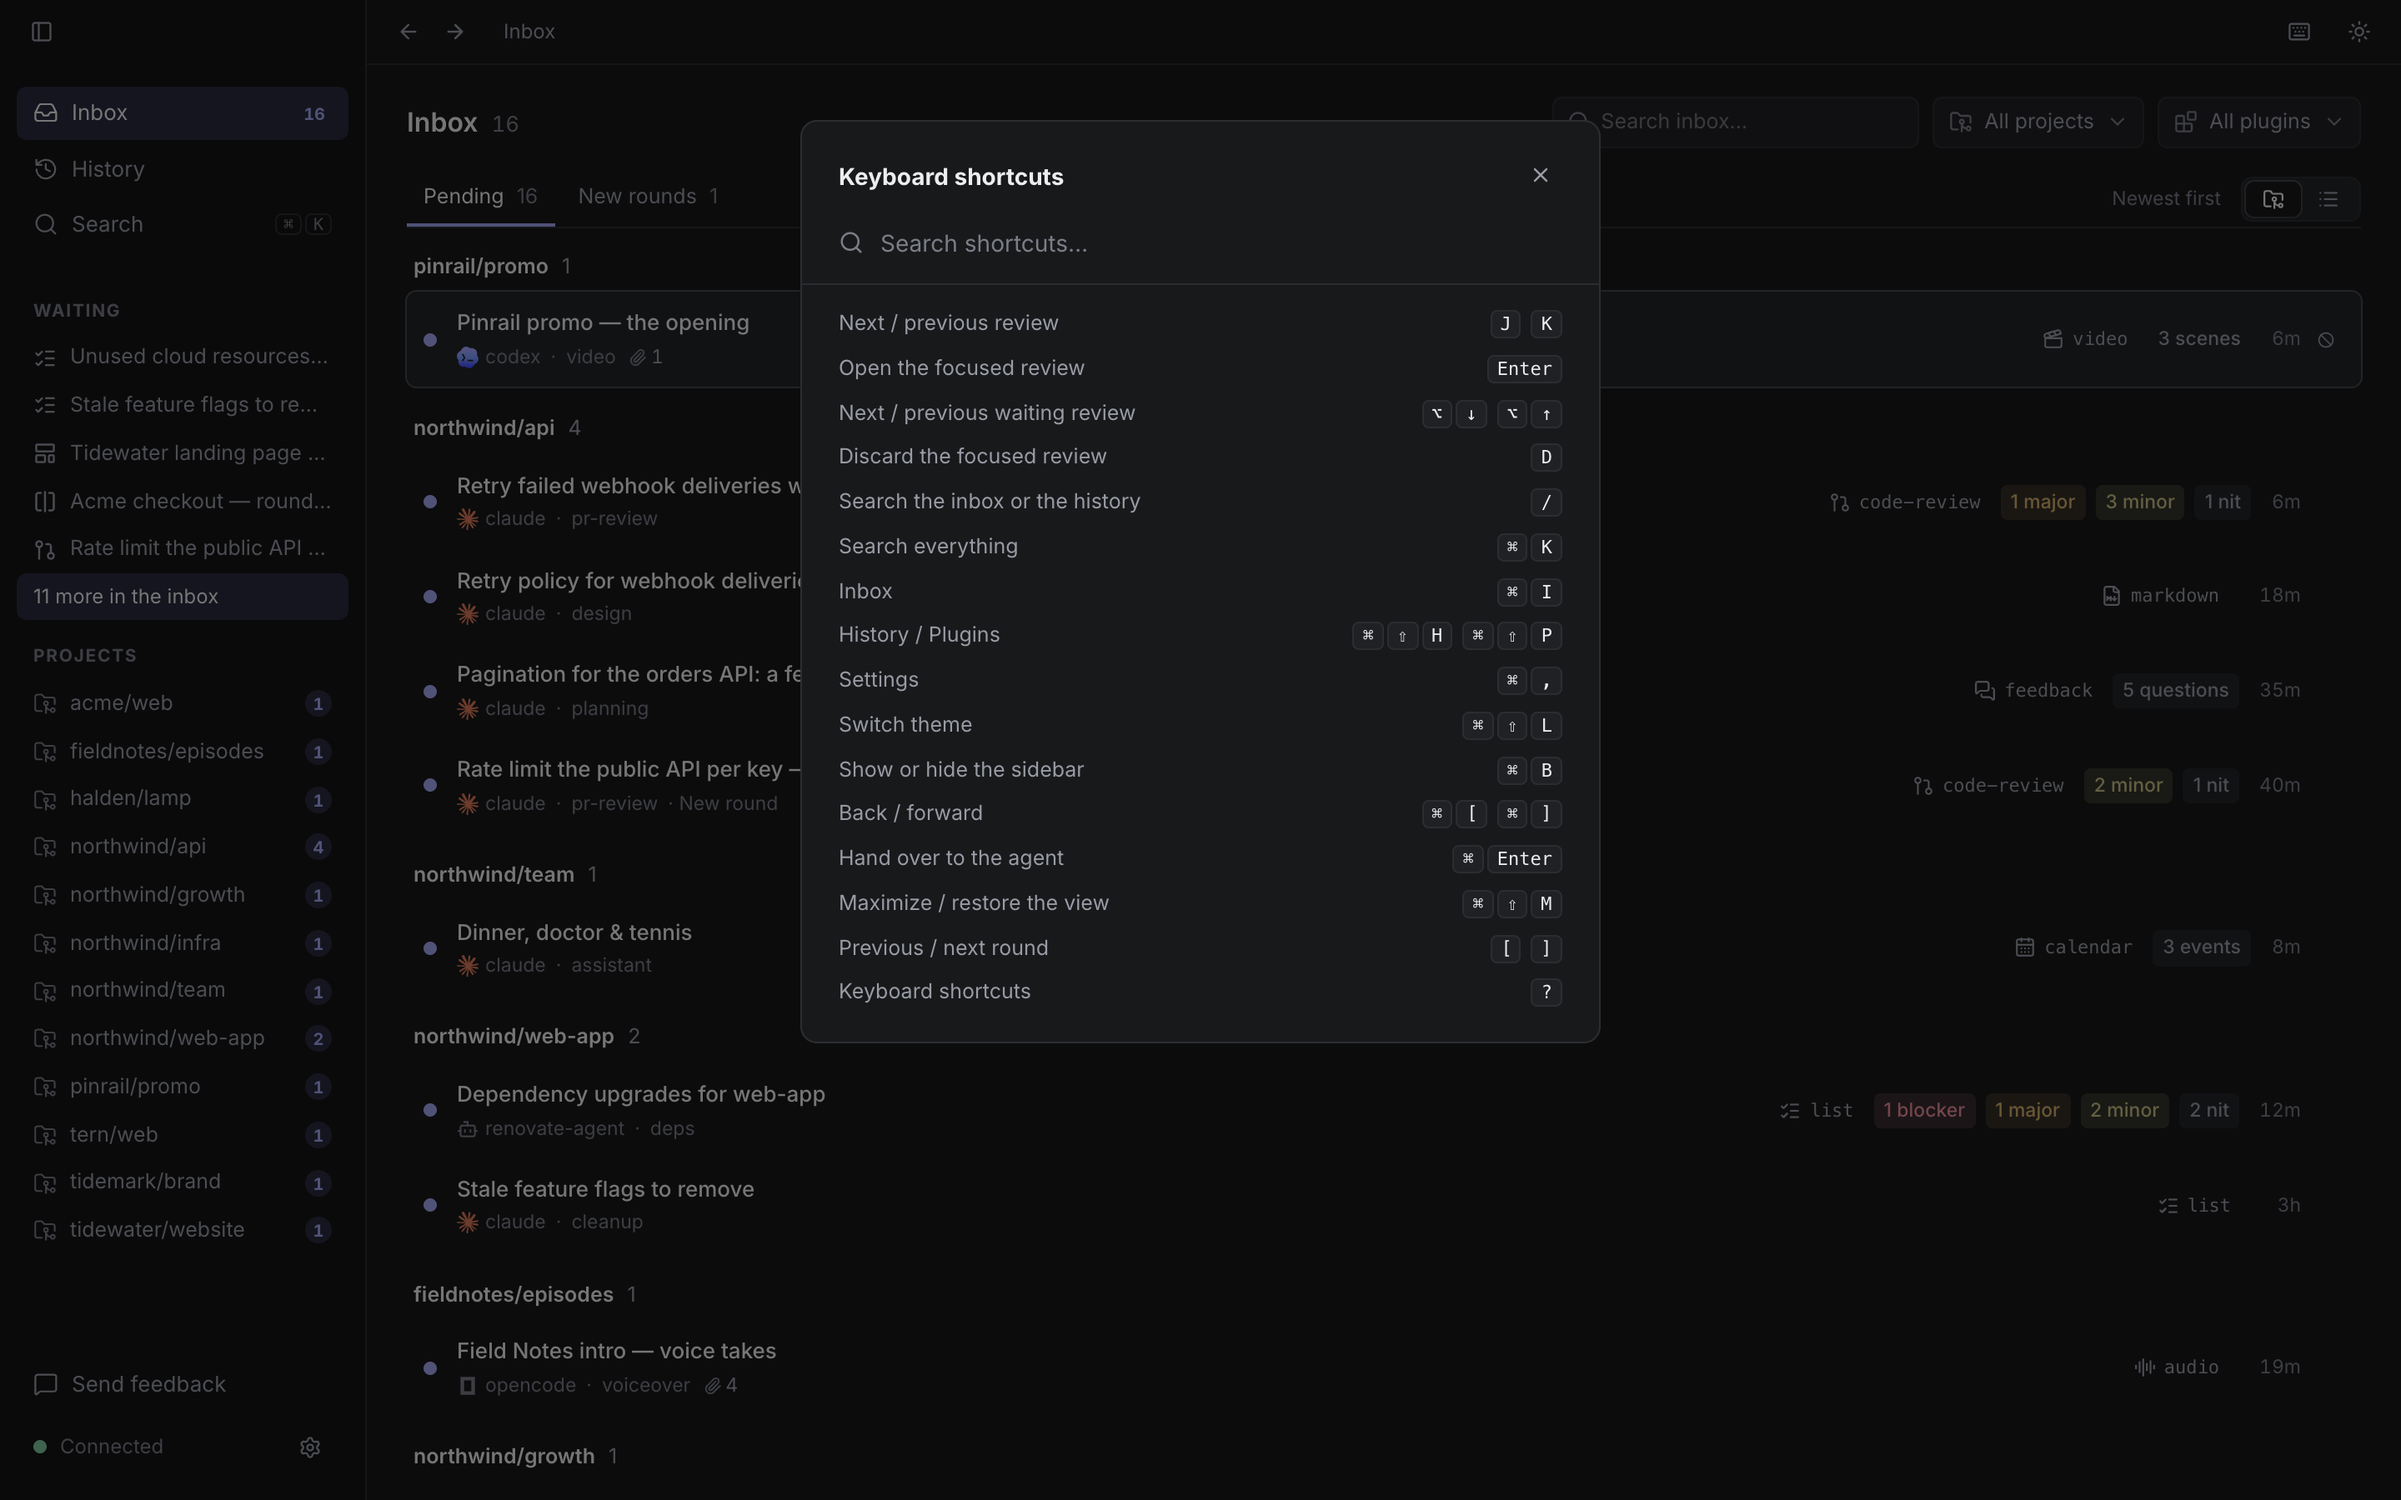
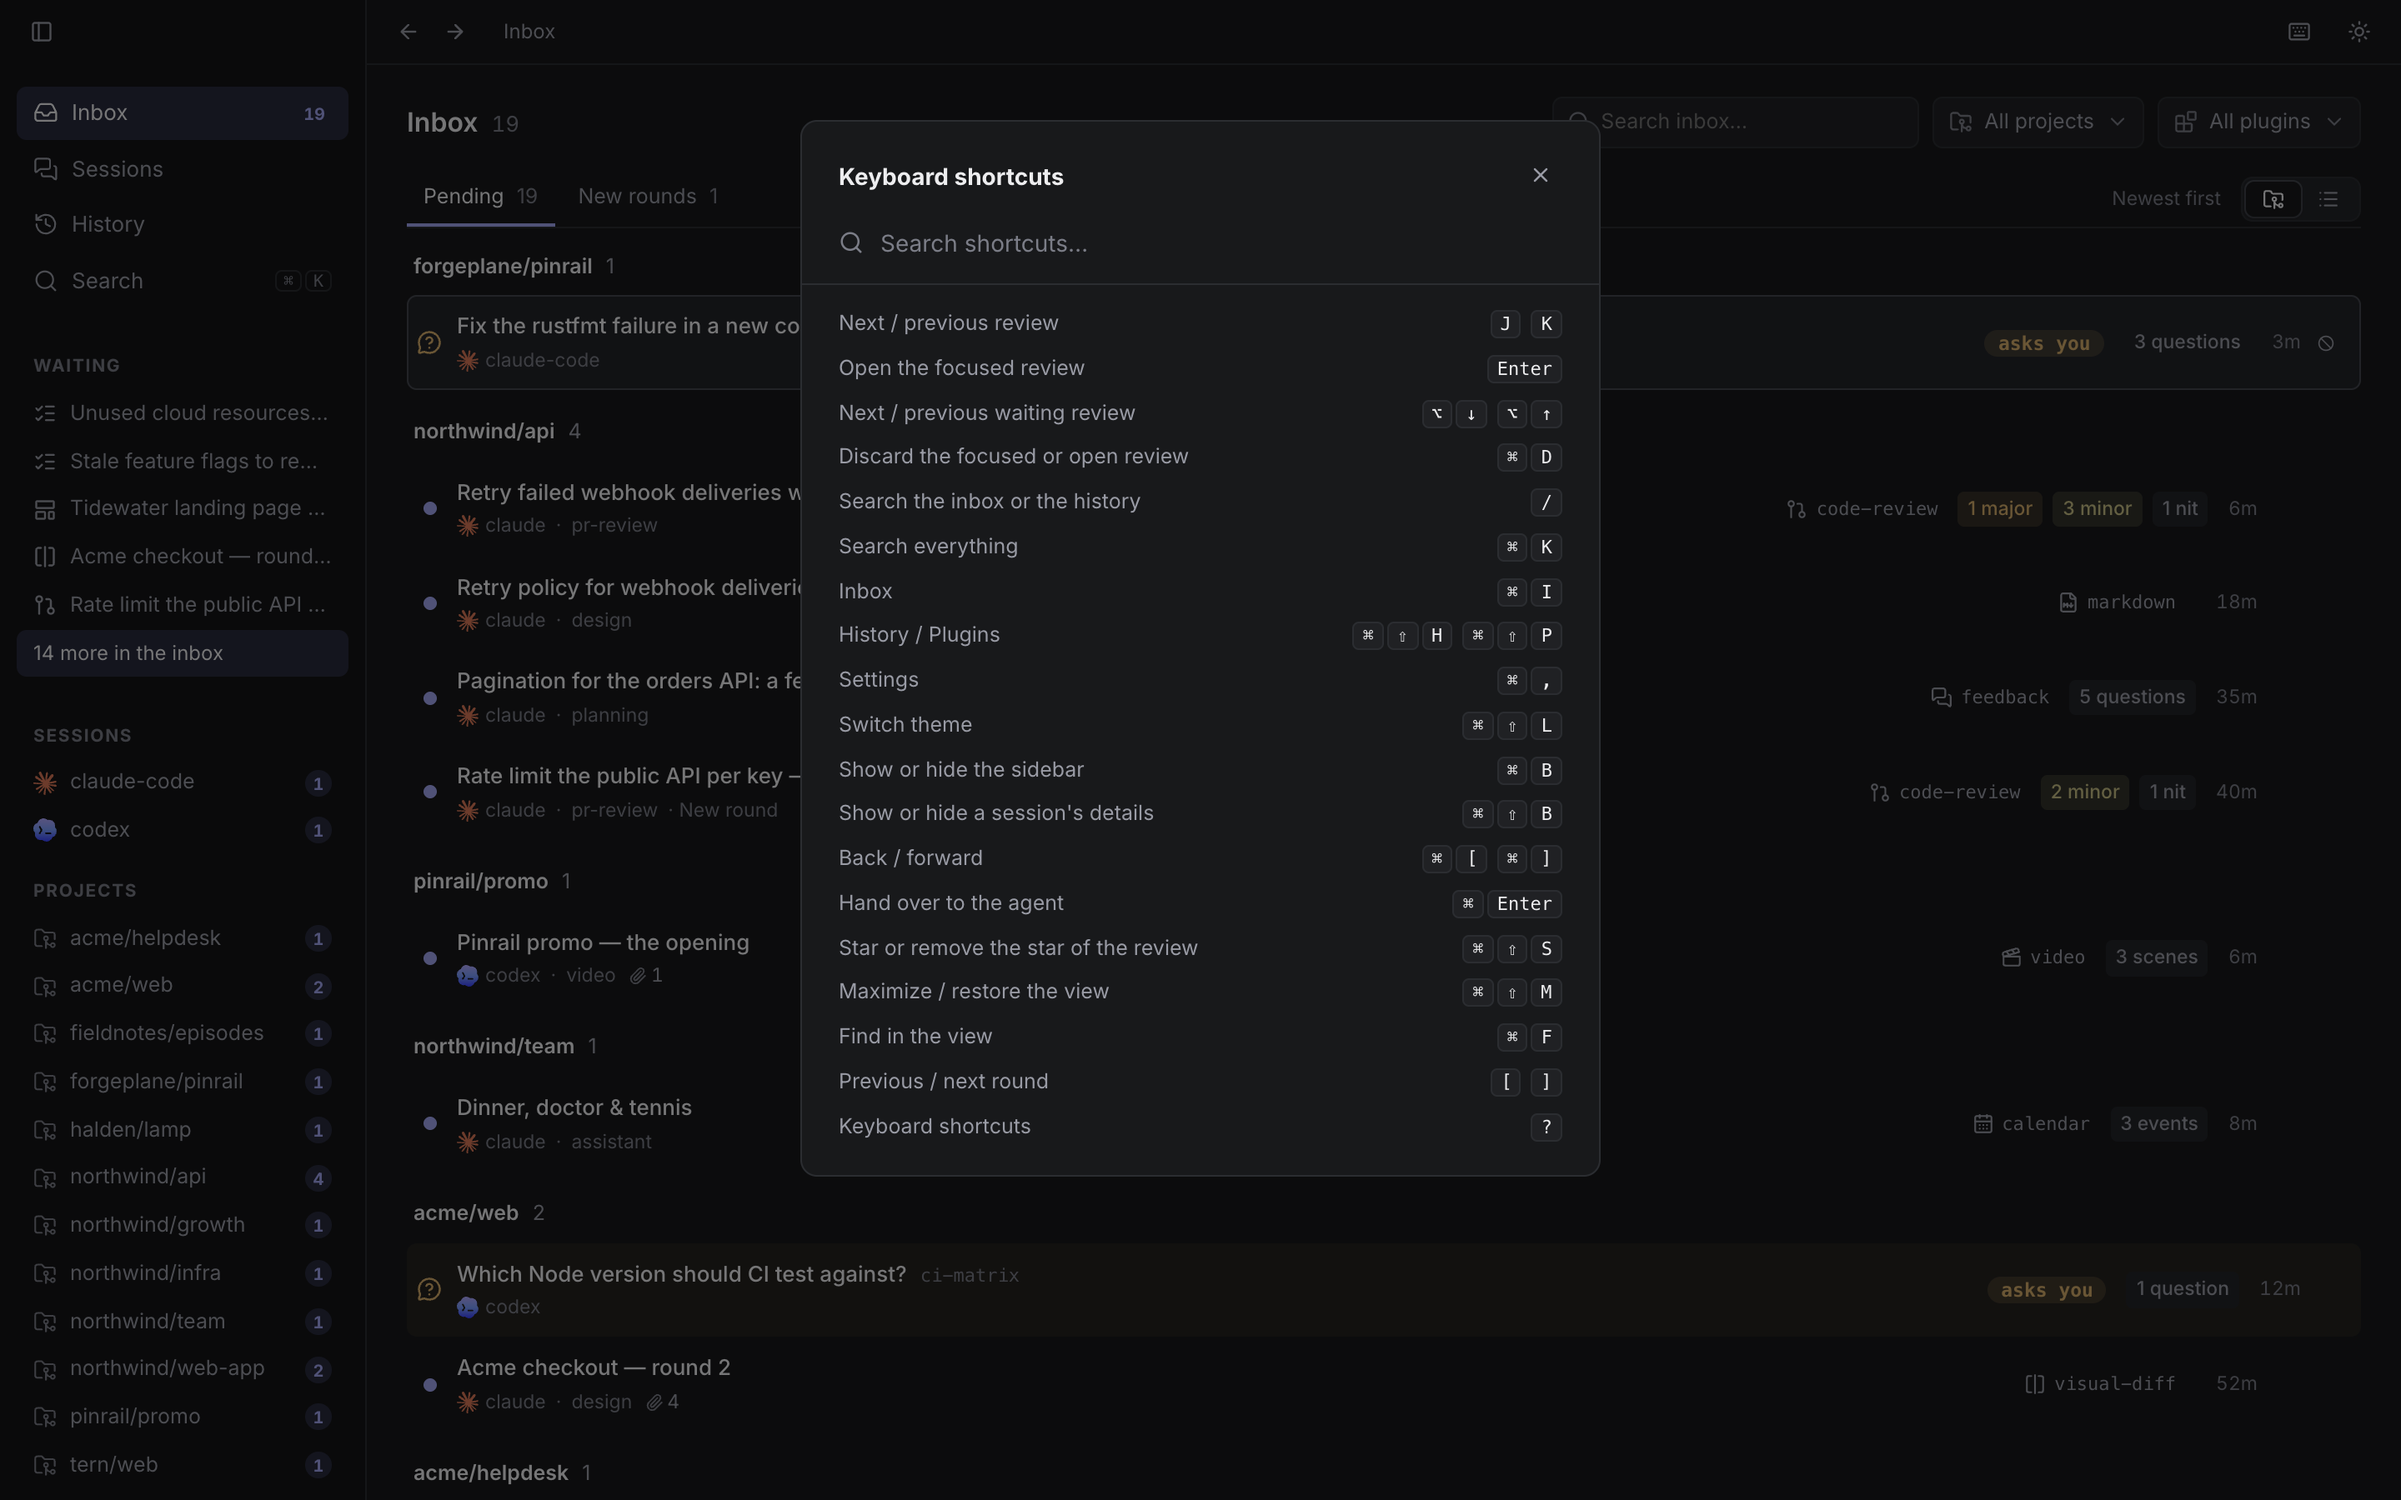
Document starring reviews
Assisted-by: Claude Code (Claude Opus 5.5)

diff --git a/docs/using/inbox.md b/docs/using/inbox.md
@@ -67,6 +67,14 @@ To search your history, press <kbd>/</kbd> and type one or more words. A review 
 
 To choose how long history is kept, see *Keep reviews for* in [Settings](/docs/using/settings/#data).
 
+## Stars
+
+Star a review to find it again later. Click the star in the review's header, on its page or in the side panel, or press <kbd>⌘⇧S</kbd>. In the inbox and the history, the star sits at the end of each row: it shows on a starred review, and on the others when the pointer is over the row. Click it again to remove the star. Questions cannot be starred.
+
+A star belongs to the round you starred. A review is shown as starred when any of its rounds is.
+
+To list the rounds you starred, turn on the star filter in the history, beside the project and plugin filters. A starred review is deleted with the rest of your history after the time set in *Keep reviews for*.
+
 ## Search everything
 
 <kbd>⌘K</kbd> opens a palette that searches every review, pending or decided, and every action in the app, such as going to a screen, opening settings or switching the theme.
@@ -95,6 +103,7 @@ Press <kbd>?</kbd> anywhere in the app to see these. On Linux, use <kbd>Ctrl</kb
 | <kbd>⌘B</kbd> | Show or hide the sidebar |
 | <kbd>⌘[</kbd> / <kbd>⌘]</kbd> | Back / forward |
 | <kbd>⌘↵</kbd> | Hand over to the agent |
+| <kbd>⌘⇧S</kbd> | Star or remove the star of the review |
 | <kbd>⌘⇧M</kbd> | Maximize / restore the view |
 | <kbd>⌘F</kbd> | Find in the view |
 | <kbd>[</kbd> / <kbd>]</kbd> | Previous / next round |

diff --git a/CHANGELOG.md b/CHANGELOG.md
@@ -35,6 +35,9 @@ The `pinrail` command ships inside the app and carries the app's version.
 - The Sessions page filters the sessions by project.
 - A review sent from a session links to the session's thread from its
   header.
+- Star a review to find it again later, from its header, with ⌘⇧S, or
+  from its row in the inbox and the history. The history's star filter
+  lists the starred reviews.
 
 ### Changed
 
